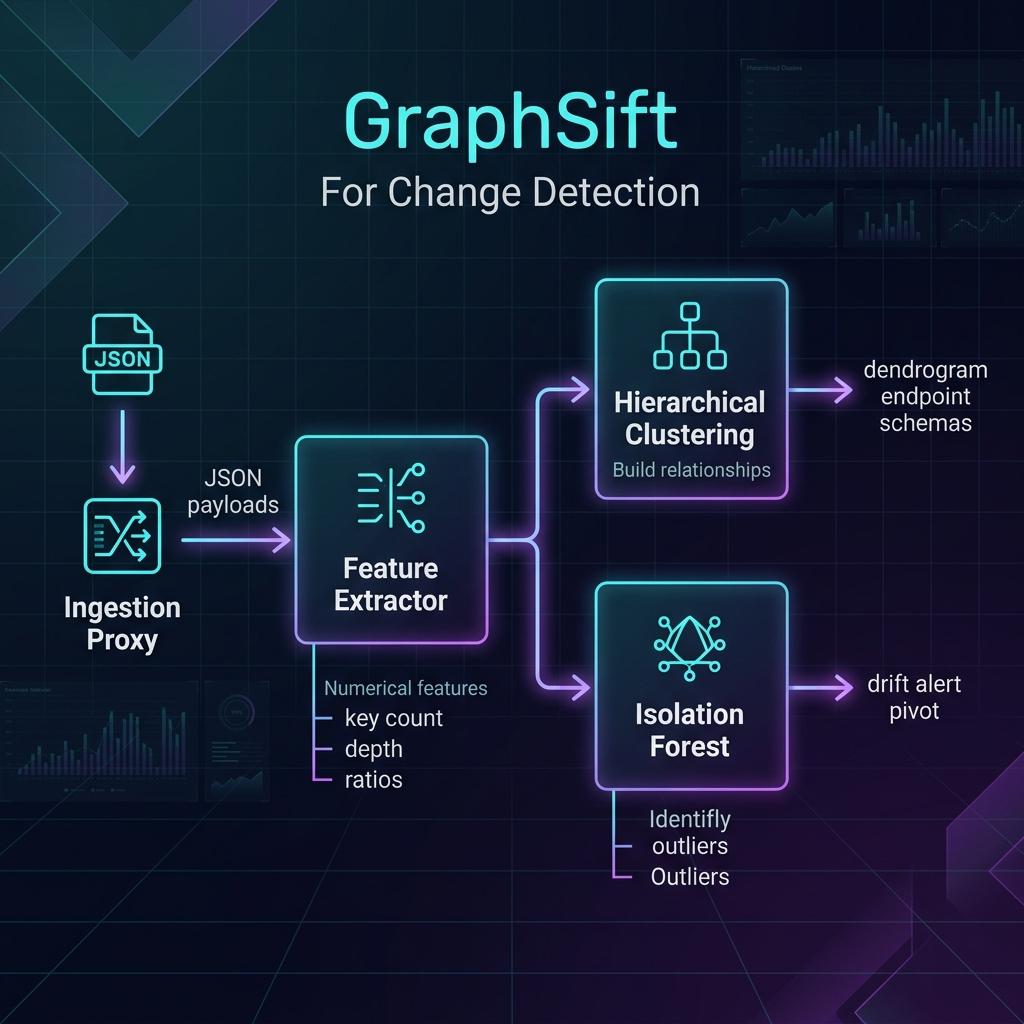
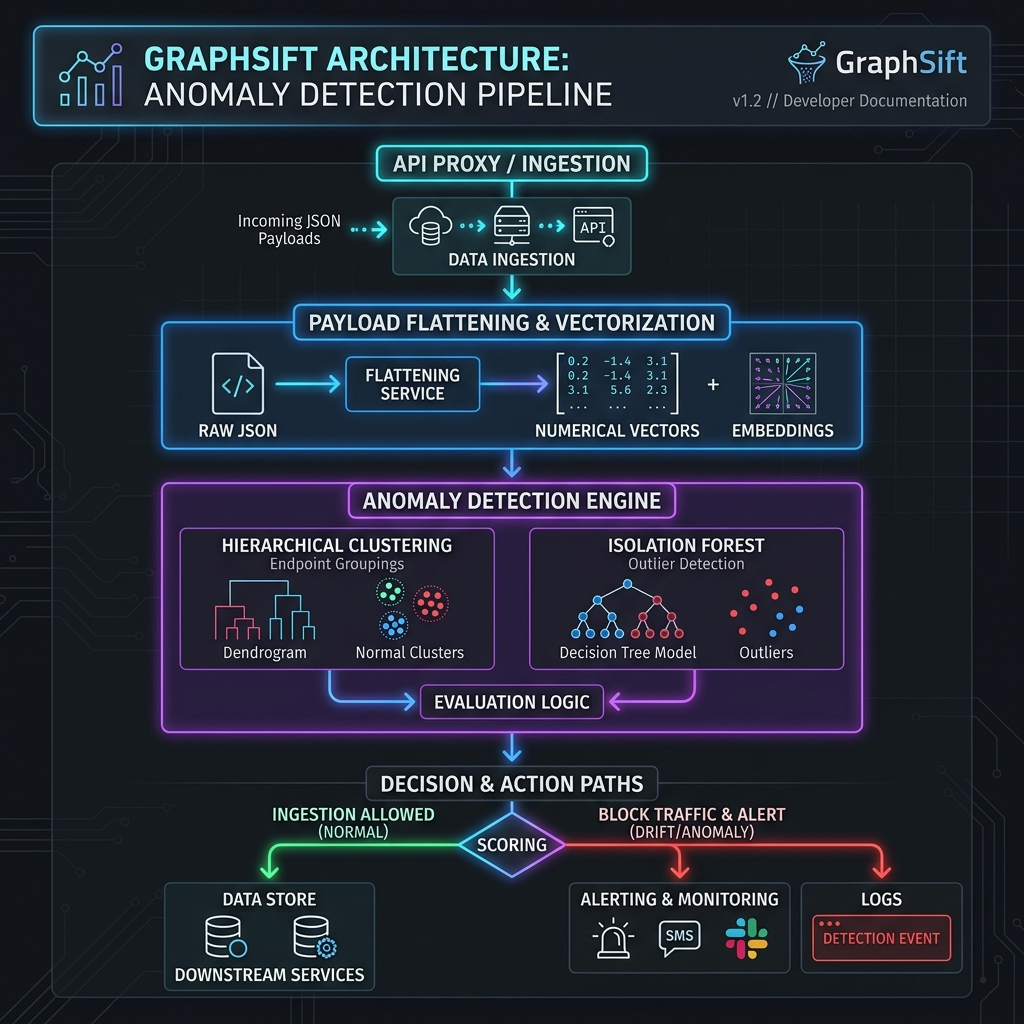
commit

diff --git a/app/main.py b/app/main.py
@@ -150,8 +150,7 @@ st.markdown(
 # --- SIDEBAR: DATASET PARAMETERS ---
 st.sidebar.markdown("### 🕸️ Model Parameters")
 
-clean_count = st.sidebar.slider("Clean Payload Samples", min_value=30, max_value=250, value=120, step=10)
-noise_count = st.sidebar.slider("Noisy Background Samples", min_value=0, max_value=100, value=30, step=5)
+sample_count = st.sidebar.slider("Payload Samples", min_value=30, max_value=250, value=120, step=10)
 
 st.sidebar.markdown("### 🛠️ Clustering Settings")
 linkage_method = st.sidebar.selectbox("Linkage Method", ["ward", "complete", "average"], index=0)
@@ -162,14 +161,6 @@ distance_metric = st.sidebar.selectbox("Distance Metric", distance_metrics, inde
 
 n_clusters = st.sidebar.slider("Target Endpoint Clusters (k)", min_value=2, max_value=6, value=3)
 
-# Data Quality sandbox mode toggle
-st.sidebar.markdown("### 🧠 Unsupervised Learning Mode")
-data_quality_mode = st.sidebar.radio(
-    "Data Quality Filter:",
-    ["Clean Training Data (Best Practice)", "Raw / Noisy Training Data (No Filters)"],
-    index=0
-)
-
 # Header Section
 st.markdown("<div class='glow-header'>GraphSift</div>", unsafe_allow_html=True)
 st.markdown("<div class='subtitle'>API Payload Structure & Dependency Audit Engine for Resilient Microservices</div>", unsafe_allow_html=True)
@@ -178,16 +169,12 @@ st.markdown("<div class='subtitle'>API Payload Structure & Dependency Audit Engi
 st.markdown(
     """
     <div class='glass-card'>
-        <h4>🔬 The Unsupervised Learning & Data Quality Mandate</h4>
+        <h4>🔬 The Unsupervised Auditing Mandate</h4>
         <p>
-            In production systems, microservices continuously exchange JSON payloads. Changes in payload structure (new schemas, redundant keys, or type shifts) 
-            can degrade database performance, crash pipelines, and open security vulnerability surfaces. 
+            In production systems, microservices continuously exchange JSON payloads. Silently changed schemas, bloated payloads with redundant keys, or incorrect data types can degrade performance, break pipelines, and impact service maintainability.
         </p>
         <p>
-            <b>GraphSift</b> demonstrates how <b>unsupervised clustering</b> groups structures into natural endpoint schemas, and how 
-            an <b>Isolation Forest</b> detects structural drift. It also showcases a fundamental rule of machine learning: 
-            <b>Data Quality is Everything.</b> Training models on unfiltered, noisy data compromises clustering boundaries, yielding 
-            inaccurate schemas and high false alarm rates.
+            <b>GraphSift</b> acts as a proxy audit engine that flattens JSON payloads into numerical feature vectors. By running <b>Agglomerative Hierarchical Clustering</b>, it groups payloads into natural "endpoint schemas." An unsupervised <b>Isolation Forest</b> builds a tight structural boundary to immediately trigger alerts and flag anomalous or malicious payloads in real time.
         </p>
     </div>
     """,
@@ -196,21 +183,10 @@ st.markdown(
 
 # --- GENERATE DATASET & TRAIN MODEL ---
 @st.cache_data(show_spinner=False)
-def get_cached_dataset(n_clean, n_noise):
-    return generate_dataset(n_clean=n_clean, n_noise=n_noise)
+def get_cached_dataset(n_samples):
+    return generate_dataset(n_samples=n_samples)
 
-# If Clean Training Mode is selected, we filter out noise from the training set.
-# This proves the exact point: removing noise is critical for high quality unsupervised models.
-raw_dataset = get_cached_dataset(clean_count, noise_count)
-
-if data_quality_mode == "Clean Training Data (Best Practice)":
-    # Filter the dataset to include ONLY clean endpoints (simulate data clearing pipeline)
-    training_dataset = [item for item in raw_dataset if item["label"] == "clean"]
-    is_data_clean = True
-else:
-    # Train on everything including crawling scrapers, stack trace noise, and error logs (raw ingestion)
-    training_dataset = raw_dataset
-    is_data_clean = False
+training_dataset = get_cached_dataset(sample_count)
 
 # Fit clustering and anomaly engine
 engine = SchemaAuditEngine(linkage_method=linkage_method, distance_metric=distance_metric)
@@ -219,8 +195,6 @@ df_summary = engine.get_summary_df()
 
 # Compute evaluation metrics to display to the user
 cophenetic_score = engine.cophenetic_corr
-noise_in_training = len([x for x in training_dataset if x["label"] == "noise"])
-noisy_ratio = noise_in_training / len(training_dataset) * 100
 
 # --- METRIC CARDS ROW ---
 col1, col2, col3, col4 = st.columns(4)
@@ -231,19 +205,18 @@ with col1:
         <div class="glass-card">
             <div class="metric-label">Training Set Size</div>
             <div class="metric-value" style="color: #6366f1;">{len(training_dataset)}</div>
-            <div style="font-size: 0.8rem; color: #94a3b8;">API structures ingesting</div>
+            <div style="font-size: 0.8rem; color: #94a3b8;">Ingested payload schemas</div>
         </div>
         """,
         unsafe_allow_html=True
     )
 with col2:
-    color = "#ef4444" if noisy_ratio > 0 else "#10b981"
     st.markdown(
         f"""
         <div class="glass-card">
-            <div class="metric-label">Noise Contamination</div>
-            <div class="metric-value" style="color: {color};">{noisy_ratio:.1f}%</div>
-            <div style="font-size: 0.8rem; color: #94a3b8;">{noise_in_training} noisy payloads in training</div>
+            <div class="metric-label">Endpoint Cluster Groups</div>
+            <div class="metric-value" style="color: #38bdf8;">{n_clusters}</div>
+            <div style="font-size: 0.8rem; color: #94a3b8;">Target schema partitions</div>
         </div>
         """,
         unsafe_allow_html=True
@@ -256,21 +229,18 @@ with col3:
         <div class="glass-card">
             <div class="metric-label">Cophenetic Coefficient</div>
             <div class="metric-value" style="color: {coph_color};">{cophenetic_score:.3f}</div>
-            <div style="font-size: 0.8rem; color: #94a3b8;">Clustering hierarchy reliability</div>
+            <div style="font-size: 0.8rem; color: #94a3b8;">Clustering stability metric</div>
         </div>
         """,
         unsafe_allow_html=True
     )
 with col4:
-    # Model Status
-    status_text = "OPTIMIZED BOUNDARY" if is_data_clean else "COMPROMISED BOUNDARY"
-    status_color = "#10b981" if is_data_clean else "#f59e0b"
     st.markdown(
-        f"""
+        """
         <div class="glass-card">
-            <div class="metric-label">Model Protection Status</div>
-            <div class="metric-value" style="color: {status_color}; font-size: 1.45rem; padding: 0.35rem 0;">{status_text}</div>
-            <div style="font-size: 0.8rem; color: #94a3b8;">Data Sifting Pipeline is {"Active" if is_data_clean else "Disabled"}</div>
+            <div class="metric-label">Schema Guard Status</div>
+            <div class="metric-value" style="color: #10b981; font-size: 1.6rem; padding: 0.2rem 0;">ACTIVE GUARD</div>
+            <div style="font-size: 0.8rem; color: #94a3b8;">Outlier detection monitoring</div>
         </div>
         """,
         unsafe_allow_html=True
@@ -287,12 +257,8 @@ with vis_col1:
     fig, ax = plt.subplots(figsize=(10, 5), facecolor="#141722")
     ax.set_facecolor("#141722")
     
-    # We assign label identifiers representing the microservice endpoints or noise
-    dendrogram_labels = []
-    for i in range(len(training_dataset)):
-        endpoint_name = training_dataset[i]["endpoint"]
-        label_class = training_dataset[i]["label"]
-        dendrogram_labels.append(f"{endpoint_name} ({label_class[0].upper()})")
+    # We assign label identifiers representing the microservice endpoints
+    dendrogram_labels = [training_dataset[i]["endpoint"] for i in range(len(training_dataset))]
         
     dendrogram(
         engine.linkage_matrix,
@@ -342,32 +308,6 @@ with vis_col2:
         height=380
     )
     st.plotly_chart(fig_pca, use_container_width=True)
-
-# --- DATA QUALITY SANDBOX COMPARISON ---
-if not is_data_clean:
-    st.markdown(
-        """
-        <div class="alert-container alert-warning">
-            ⚠️ <b>CRITICAL WARNING: Training with Noise Contaminants!</b><br/>
-            Notice that the clusters in the PCA diagram are overlapping, and the dendrogram is messy. 
-            Because we are training the unsupervised model on web crawler logs, heartbeat ticks, and stack traces, the 
-            system boundary is loose. Hackers or bloated schema drift will bypass this boundary, leading to security 
-            breaches and service crashes. <b>Toggle 'Clean Training Data' in the sidebar to activate the sifting filter!</b>
-        </div>
-        """,
-        unsafe_allow_html=True
-    )
-else:
-    st.markdown(
-        """
-        <div class="alert-container alert-normal">
-            ✅ <b>Sifting Filter Active: High Quality Data Training!</b><br/>
-            Unsupervised learning successfully grouped payloads into perfect microservice schemas. Notice the high Cophenetic Coefficient 
-            (closer to 1.0 indicates stable clusters). Anomaly thresholds are tight and precise.
-        </div>
-        """,
-        unsafe_allow_html=True
-    )
 
 # --- INGESTION & AUDIT SANDBOX ---
 st.markdown("---")

diff --git a/app/generator.py b/app/generator.py
@@ -49,32 +49,6 @@ def gen_inventory_item():
         "restock_needed": random.choice([True, False])
     }
 
-# Noise Payloads
-def gen_noise_crawler():
-    # Simulated search engine scraper or basic probe payload
-    return {
-        "headers": {
-            "User-Agent": "Mozilla/5.0 (compatible; Googlebot/2.1; +http://www.google.com/bot.html)",
-            "Accept": "*/*"
-        },
-        "method": "GET",
-        "path": random.choice(["/robots.txt", "/sitemap.xml", "/.env", "/wp-login.php"])
-    }
-
-def gen_noise_error():
-    # Database connection or code crash stack traces
-    return {
-        "error": "Internal Server Error",
-        "code": 500,
-        "message": "database connection pool exhausted",
-        "timestamp": datetime.utcnow().isoformat(),
-        "traceback": "Traceback (most recent call): File '/app/db.py', line 45, in connect ... ConnectionRefusedError"
-    }
-
-def gen_noise_ping():
-    # Very short heartbeat/ping
-    return {"ping": True}
-
 # Anomalous/Drift Payloads
 def gen_anomaly_bloat(endpoint_type):
     # Generates a bloated schema with 30-50 extra randomized keys
@@ -128,15 +102,15 @@ def gen_anomaly_large_strings():
         "comment": "B" * random.randint(5000, 8000)
     }
 
-def generate_dataset(n_clean=100, n_noise=0):
+def generate_dataset(n_samples=120):
     """
-    Generates a dataset of API payloads containing a mix of endpoints and optional noise.
+    Generates a dataset of API payloads containing a mix of endpoints.
     """
     dataset = []
     
-    # 1. Add clean microservice endpoints
+    # Add clean microservice endpoints
     endpoints = ["user", "payment", "inventory"]
-    for _ in range(n_clean):
+    for _ in range(n_samples):
         ep = random.choice(endpoints)
         if ep == "user":
             payload = gen_user_profile()
@@ -145,17 +119,6 @@ def generate_dataset(n_clean=100, n_noise=0):
         else:
             payload = gen_inventory_item()
         dataset.append({"endpoint": ep, "payload": payload, "label": "clean"})
-        
-    # 2. Add noise payloads if requested
-    for _ in range(n_noise):
-        noise_type = random.choice(["crawler", "error", "ping"])
-        if noise_type == "crawler":
-            payload = gen_noise_crawler()
-        elif noise_type == "error":
-            payload = gen_noise_error()
-        else:
-            payload = gen_noise_ping()
-        dataset.append({"endpoint": "noise", "payload": payload, "label": "noise"})
         
     random.shuffle(dataset)
     return dataset

diff --git a/README.md b/README.md
@@ -19,9 +19,6 @@ Microservices are constantly communicating. When a third-party API silently chan
 3. **Unsupervised Clustering**: Agglomerative Hierarchical Clustering (using Cosine or Euclidean linkage) groups structures into natural API endpoints.
 4. **The Security Guardrail**: An unsupervised **Isolation Forest** learns normal boundaries. If a bloated, deeply-nested, or typed-mismatched payload comes in, it triggers a **Critical Structural Drift Alert** to block the traffic.
 
-### ⚠️ The Data Quality Rule: "Garbage In, Garbage Out"
-GraphSift includes a **Data Quality comparison sandbox** showing how training on noisy data (web crawlers scanning random URLs, database stack traces, heartbeats) compromises clustering boundaries. Filtering out noise yields clean schemas, a high Cophenetic Correlation Coefficient, and highly reliable drift detection.
-
 ---
 
 ## 🛠️ Step-by-Step Installation & Launch
@@ -78,11 +75,9 @@ GraphSift includes a live interactive sandbox to test payloads:
 ## ⚙️ Configuration & Model Tweaking
 
 From the sidebar menu, you can configure the underlying model:
-- **Clean Payload / Noisy Samples**: Increase or decrease samples to test scaling.
+- **Payload Samples**: Adjust the number of generated sample payloads to test clustering scaling.
 - **Linkage Method**: Choose between `Ward`, `Complete`, or `Average`.
 - **Distance Metric**: Switch between `Euclidean`, `Cosine`, or `Cityblock` (Manhattan) metrics.
-- **Target Clusters (k)**: Set the number of schemas expected.
-- **Data Quality Filter**: Toggle between **Clean Training Data** (filtering out crawlers/errors) and **Raw / Noisy Training Data** to see the clustering boundary degrade.
 
 ## Dashboard Demo
 
@@ -91,3 +86,5 @@ Live interactive demo here: https://graphsift-118680568866.us-west1.run.app
 Dashboard Sample View:
 
 <img width="1994" height="970" alt="Screenshot 2026-06-20 at 12 38 21 AM" src="https://github.com/user-attachments/assets/d96fbc6f-b7e9-4f96-8668-6b8e0af7e8d4" />
+
+